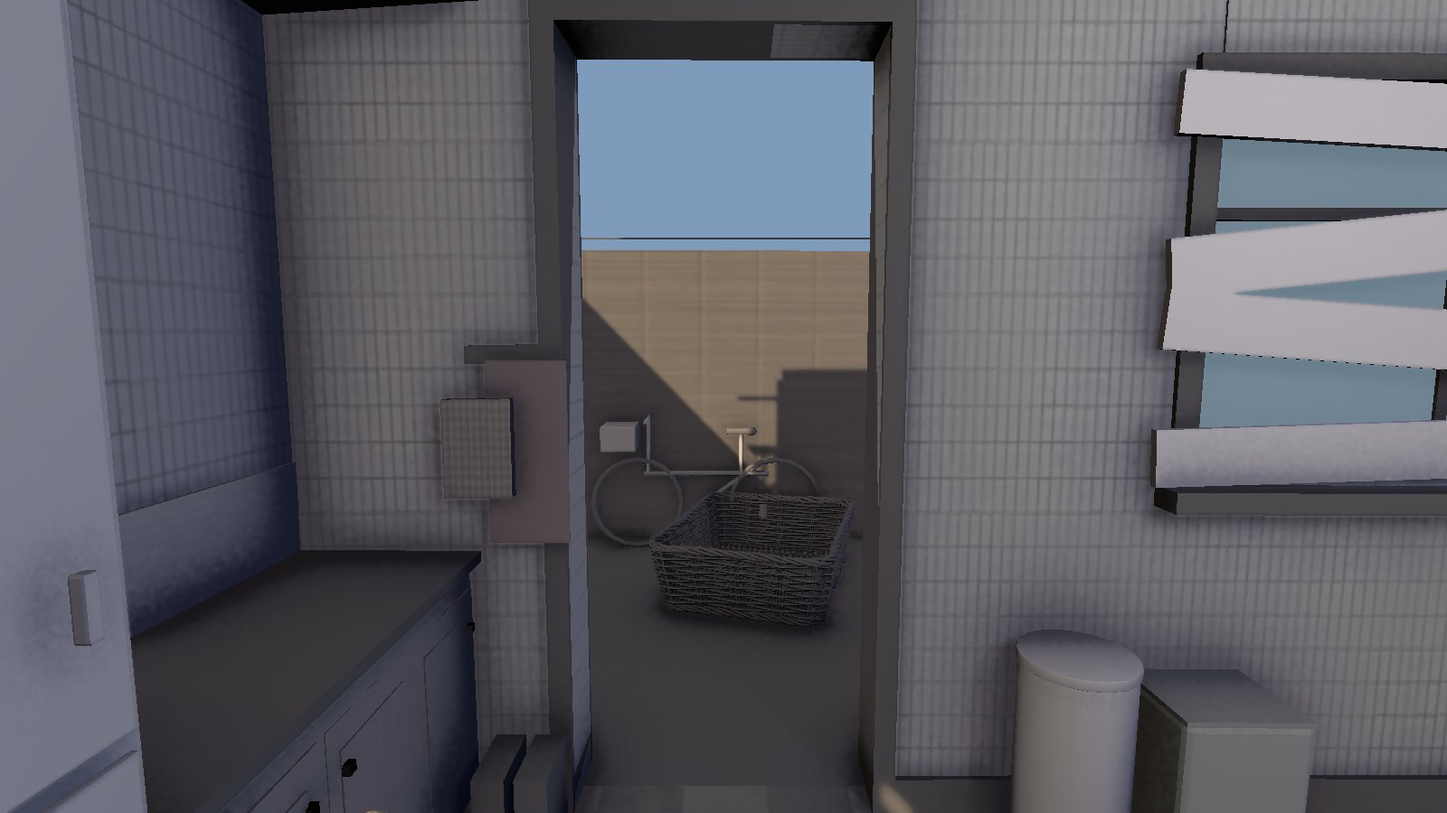
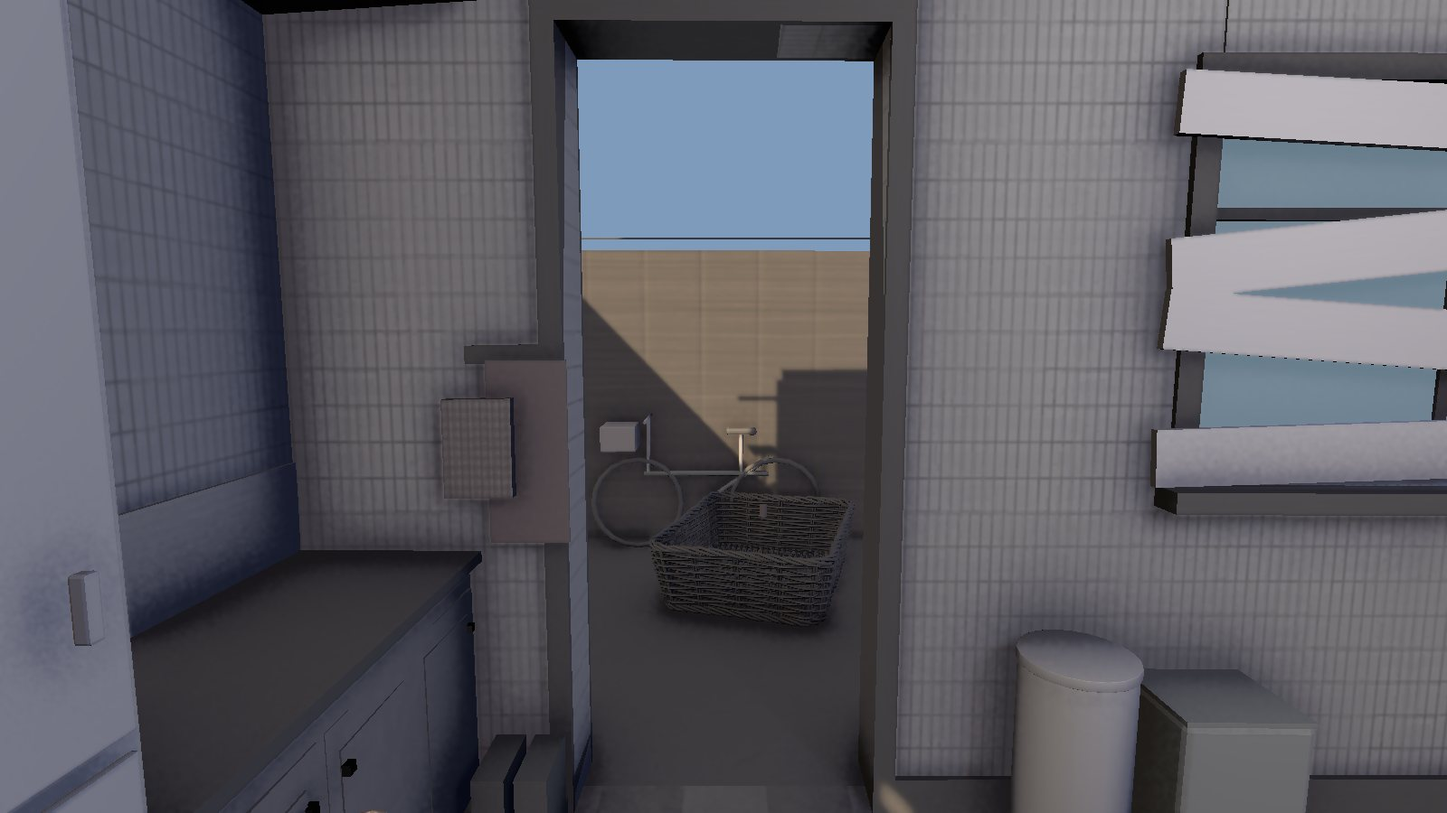
feat(case01): passage fades in with lantern-reveal effect; lantern radius follows memory age
- Kitchen-side-yard passage no longer pops in: on first entering the kitchen
  as teen, the seal becomes anomaly-only and the frame real-only, and a small
  reveal room spreads from the doorway centre (0.9 m/s, ~2-3 s, glowing edge);
  the seal and its collider are removed only when fully revealed.
- LanternReveal: per-room spread speed and RemoveRoom.
- Lantern radius scales with eye height: child x0.70, teen x0.85, adult x1.00
  (light, reveal range and light range together), smooth with the eye.
- Tests: reveal is gradual, blocks until done, spreads from the centre;
  lantern radius per age. Passage capture adds mid-reveal frames.

Changed region(s): [[0.375, 0.0622, 0.4062, 0.4667], [0.5938, 0.0933, 0.625, 0.4667], [0.5312, 0.0311, 0.5625, 0.0622]]

diff --git a/unity/Assets/Exploration/Scripts/Lantern/LanternKitchenYardPassage.cs b/unity/Assets/Exploration/Scripts/Lantern/LanternKitchenYardPassage.cs
@@ -1,5 +1,6 @@
 using System.Collections.Generic;
 using UnityEngine;
+using Mode = Shepherd.Exploration.Lantern.LanternReveal.Mode;
 
 namespace Shepherd.Exploration.Lantern
 {
@@ -17,10 +18,23 @@ namespace Shepherd.Exploration.Lantern
         /// <summary>封住時補上的那段牆（含兩側踢腳板）。</summary>
         public Transform KitchenYardSeal { get; private set; }
         private readonly List<GameObject> kitchenYardFrame = new List<GameObject>();
+        /// <summary>通路正在慢慢顯現（補牆還在、碰撞還在，顯現完才拿掉）。</summary>
+        public bool KitchenYardRevealing { get; private set; }
+        /// <summary>從門洞中央往外顯現的速度（m/s）；約 2 秒顯現完。</summary>
+        public const float KitchenYardRevealSpeed = 0.9f;
+        private int kitchenYardRoom = -1;
+        private float kitchenYardRevealNeed;
+        /// <summary>QA 用：顯現進度（目前擴散半徑／需要的半徑、格子）。</summary>
+        public string KitchenYardRevealDebug => "slot " + kitchenYardRoom + " spread " + (kitchenYardRoom >= 0 ? LanternReveal.RoomSpread(kitchenYardRoom) : -1f).ToString("0.00") + " need " + kitchenYardRevealNeed.ToString("0.00");
+        private readonly List<(Renderer r, Material m)> kitchenYardSwapped = new List<(Renderer, Material)>();
 
         /// <summary>在 BuildHouseV2 裡（V2 座標生效時）呼叫：建好補牆、找出門洞的門框，預設封住。</summary>
         private void V2KitchenYardPassage()
         {
+            if (kitchenYardRoom >= 0) LanternReveal.RemoveRoom(kitchenYardRoom);   // 房子重建：收回上一輪的顯現範圍
+            kitchenYardRoom = -1;
+            KitchenYardRevealing = false;
+            kitchenYardSwapped.Clear();
             kitchenYardFrame.Clear();
             const float doorH = 2.25f;   // 和 V2Shell 的門洞高度一樣
             var a = HP(V2ExtWidth, 0f, KitchenYardZ0);
@@ -43,9 +57,67 @@ namespace Shepherd.Exploration.Lantern
             SetKitchenYardPassage(false);
         }
 
-        /// <summary>開／關廚房↔側院的通路（開＝門洞與門框出現；關＝完整的牆）。</summary>
+        /// <summary>
+        /// 劇情觸發：通路慢慢顯現，效果和「提燈照到才出現的東西」一樣——
+        /// 補牆改成只存在於異域的牆、門框改成只存在於真實的門框，再從門洞中央讓一塊小範圍慢慢恢復真實（邊緣發光）。
+        /// 提燈照到的地方也會提早看見。顯現完才拿掉補牆（含碰撞），門框換回一般材質。
+        /// </summary>
+        public void RevealKitchenYardPassage()
+        {
+            if (KitchenYardOpen || KitchenYardSeal == null) return;
+            KitchenYardOpen = true;
+            KitchenYardRevealing = true;
+            kitchenYardSwapped.Clear();
+            void Swap(Renderer r, Mode mode)
+            {
+                var m = new Material(r.sharedMaterial) { name = r.sharedMaterial.name + (mode == Mode.AnomalyOnly ? "_AnomalyOnly" : "_RealOnly") };
+                m.SetFloat("_Mode", (float)mode);
+                kitchenYardSwapped.Add((r, r.sharedMaterial));
+                r.sharedMaterial = m;
+            }
+            foreach (var r in KitchenYardSeal.GetComponentsInChildren<Renderer>()) Swap(r, Mode.AnomalyOnly);
+            foreach (var g in kitchenYardFrame)
+            {
+                if (g == null) continue;
+                g.SetActive(true);
+                foreach (var r in g.GetComponentsInChildren<Renderer>()) Swap(r, Mode.RealOnly);
+            }
+            // 顯現的範圍只包住門洞（牆厚＋門框），不會把旁邊的牆也變成真實的樣子。
+            // （注意：這裡是遊戲中呼叫，HP() 已經不是 V2 的座標，所以直接用物件的外框。）
+            var sealRs = KitchenYardSeal.GetComponentsInChildren<Renderer>();
+            var b = sealRs[0].bounds;
+            foreach (var r in sealRs) b.Encapsulate(r.bounds);
+            foreach (var g in kitchenYardFrame) if (g != null) foreach (var r in g.GetComponentsInChildren<Renderer>()) b.Encapsulate(r.bounds);
+            b.Expand(new Vector3(0.12f, 0.1f, 0.06f));
+            var seed = new Vector3(b.center.x, b.min.y + 1.2f, b.center.z);
+            kitchenYardRevealNeed = 0f;
+            foreach (var cx in new[] { b.min.x, b.max.x }) foreach (var cy in new[] { b.min.y, b.max.y }) foreach (var cz in new[] { b.min.z, b.max.z })
+                kitchenYardRevealNeed = Mathf.Max(kitchenYardRevealNeed, Vector3.Distance(seed, new Vector3(cx, cy, cz)));
+            kitchenYardRevealNeed += 0.7f;   // 遮罩邊緣（與 IsReal 判斷的 0.6 m 一致，再留一點）
+            kitchenYardRoom = LanternReveal.AddRoom(b, seed, false, KitchenYardRevealSpeed);
+            if (kitchenYardRoom < 0) FinishKitchenYardReveal();   // 沒有空格：直接打開
+        }
+
+        /// <summary>每個影格：顯現完了就拿掉補牆與碰撞。</summary>
+        public void TickKitchenYardPassage()
+        {
+            if (KitchenYardRevealing && LanternReveal.RoomSpread(kitchenYardRoom) >= kitchenYardRevealNeed) FinishKitchenYardReveal();
+        }
+
+        private void FinishKitchenYardReveal()
+        {
+            KitchenYardRevealing = false;
+            foreach (var (r, m) in kitchenYardSwapped) if (r != null) r.sharedMaterial = m;
+            kitchenYardSwapped.Clear();
+            if (KitchenYardSeal != null) KitchenYardSeal.gameObject.SetActive(false);
+            Physics.SyncTransforms();
+        }
+
+        /// <summary>直接開／關廚房↔側院的通路（開＝門洞與門框出現；關＝完整的牆）。測試、截圖、重建用；遊戲裡用 RevealKitchenYardPassage。</summary>
         public void SetKitchenYardPassage(bool open)
         {
+            if (KitchenYardRevealing) FinishKitchenYardReveal();
+            if (!open && kitchenYardRoom >= 0) { LanternReveal.RemoveRoom(kitchenYardRoom); kitchenYardRoom = -1; }
             KitchenYardOpen = open;
             if (KitchenYardSeal != null) KitchenYardSeal.gameObject.SetActive(!open);
             foreach (var g in kitchenYardFrame) if (g != null) g.SetActive(open);

diff --git a/unity/Assets/Exploration/Scripts/Lantern/LanternPrototypeQA.cs b/unity/Assets/Exploration/Scripts/Lantern/LanternPrototypeQA.cs
@@ -309,7 +309,8 @@ namespace Shepherd.Exploration.Lantern
             var p = feet + Vector3.up;
             bool inDining = World.V2DiningRoom.size.sqrMagnitude > 0f && World.V2DiningRoom.Contains(p);
             if (Age == MemoryAge.Child && (inDining || area == 1)) Age = MemoryAge.Teen;   // 走廊→餐廳：第一次成長
-            if (Age >= MemoryAge.Teen && area == 1 && !World.KitchenYardOpen) World.SetKitchenYardPassage(true);   // 進廚房：通路恢復
+            if (Age >= MemoryAge.Teen && area == 1 && !World.KitchenYardOpen) World.RevealKitchenYardPassage();   // 進廚房：通路慢慢顯現
+            World.TickKitchenYardPassage();
             if (Age == MemoryAge.Teen && World.KitchenYardOpen && area == 2 && lastArea == 1 && !jumped) Age = MemoryAge.Adult;   // 廚房→側院：成人
             if (jumped || area != 0) lastArea = area;
         }
@@ -318,6 +319,21 @@ namespace Shepherd.Exploration.Lantern
         public float ChildEyeHeight = 0.85f;
         /// <summary>初中時期的眼高（餐廳）。</summary>
         public float TeenEyeHeight = 1.12f;
+        /// <summary>
+        /// 提燈光圈跟著記憶年齡縮放（使用者 2026-11-16：小時候拿燈的光照範圍不該和大人一樣大）。
+        /// 完全照身高比例（0.85／1.62≈0.52、1.12／1.62≈0.69）會小到前方只照得到 1 m 多、很難探索，
+        /// 所以取折衷：幼年 0.70、青春期 0.85、成人 1.00；中間跟著眼高平順變化。
+        /// </summary>
+        public float ChildLanternScale = 0.70f, TeenLanternScale = 0.85f;
+
+        /// <summary>依目前的眼高換算提燈光圈倍率（幼年眼高→幼年倍率、青春期→青春期、成人→1，中間線性）。</summary>
+        public float LanternScaleForEye(float eye)
+        {
+            if (eye <= TeenEyeHeight)
+                return Mathf.Lerp(ChildLanternScale, TeenLanternScale, Mathf.InverseLerp(ChildEyeHeight, TeenEyeHeight, eye));
+            return Mathf.Lerp(TeenLanternScale, 1f, Mathf.InverseLerp(TeenEyeHeight, AdultEyeHeight, eye));
+        }
+
         /// <summary>false＝永遠成人眼高（有些測試與工具用）。</summary>
         public bool MemoryHeights = true;
         /// <summary>測試模式 K 的強制視角：null＝自動（依房間）。</summary>
@@ -348,6 +364,7 @@ namespace Shepherd.Exploration.Lantern
             TargetEyeHeight = ViewOverride ?? MemoryEyeHeightAt(feet);
             eyeNow = jumped ? TargetEyeHeight : Mathf.MoveTowards(eyeNow, TargetEyeHeight, dt * 1.3f);   // 穿過記憶門：約半秒的過渡
             Player.EyeHeightValue = eyeNow;
+            Rig.RadiusScale = LanternScaleForEye(eyeNow);
         }
 
         /// <summary>測試模式 K：自動 → 強制成人 → 強制小小孩 → 自動。</summary>
@@ -403,7 +420,7 @@ namespace Shepherd.Exploration.Lantern
             GUI.color = Color.white;
             string mode = ViewOverride == null ? "自動（依記憶房間）" : Mathf.Approximately(ViewOverride.Value, AdultEyeHeight) ? "強制成人" : "強制小小孩";
             GUI.Label(new Rect(w - 462, 10, 450, 24), "服飾店測試（A 正式）：視角 " + mode, shopLabel);
-            GUI.Label(new Rect(w - 462, 36, 450, 20), "記憶：" + (Age == MemoryAge.Child ? "幼年" : Age == MemoryAge.Teen ? "青春期" : "成人") + (World.KitchenYardOpen ? "・廚房側院通路已開" : "") + "　眼高 " + Player.EyeHeightValue.ToString("0.00") + " m（小小孩 " + ChildEyeHeight.ToString("0.00") + "／初中 " + TeenEyeHeight.ToString("0.00") + "／成人 1.62）", shopHint);
+            GUI.Label(new Rect(w - 462, 36, 450, 20), "記憶：" + (Age == MemoryAge.Child ? "幼年" : Age == MemoryAge.Teen ? "青春期" : "成人") + (World.KitchenYardOpen ? "・廚房側院通路已開" : "") + "　眼高 " + Player.EyeHeightValue.ToString("0.00") + " m・光圈 ×" + Rig.RadiusScale.ToString("0.00"), shopHint);
             GUI.Label(new Rect(w - 462, 56, 450, 20), "K 自動／成人／小小孩・U／I 小小孩眼高 −／＋ 0.05", shopHint);
             GUI.Label(new Rect(w - 462, 76, 450, 20), "1 入口・2 櫃台前・3 工作區・4 衣架後方・5 住宅入口", shopHint);
             GUI.Label(new Rect(w - 462, 96, 450, 20), "Shift+F2 離開（回到現況、成人視角）", shopHint);

diff --git a/unity/Assets/Exploration/Tests/EditMode/LanternPrototypeTests.cs b/unity/Assets/Exploration/Tests/EditMode/LanternPrototypeTests.cs
@@ -1692,6 +1692,8 @@ namespace Shepherd.Exploration.Tests
             Settle(qa);
             Assert.AreEqual(LanternPrototypeQA.MemoryAge.Child, qa.Age, "從走廊的門進側院：還是幼年");
             Assert.AreEqual(qa.ChildEyeHeight, qa.Player.EyeHeightValue, 1e-4f, "側院：幼年眼高");
+            float baseR = LanternRig.Radii[qa.Rig.RadiusIndex];
+            Assert.AreEqual(baseR * qa.ChildLanternScale, qa.Rig.TargetRadius, 1e-3f, "幼年：提燈光圈比較小");
             Assert.IsFalse(w.KitchenYardOpen, "通路還沒出現");
             TakeThread(qa);
             Walk(qa, "幼年：側院→店面", YardToShop);
@@ -1705,6 +1707,7 @@ namespace Shepherd.Exploration.Tests
             Settle(qa);
             Assert.AreEqual(LanternPrototypeQA.MemoryAge.Teen, qa.Age, "進餐廳：青春期");
             Assert.AreEqual(qa.TeenEyeHeight, qa.Player.EyeHeightValue, 1e-4f, "餐廳：青春期眼高");
+            Assert.AreEqual(baseR * qa.TeenLanternScale, qa.Rig.TargetRadius, 1e-3f, "青春期：提燈光圈中等");
             Walk(qa, "餐廳→走廊", HallToKitchen[1], HallToKitchen[0], (5.07f, 7.5f));
             Walk(qa, "走廊→側院", HallToYard);
             Settle(qa);
@@ -1713,8 +1716,28 @@ namespace Shepherd.Exploration.Tests
             Walk(qa, "側院→走廊", (5.1f, 10.6f), (5.1f, 9.4f), (5.07f, 6.45f));
             // 進廚房：通路恢復，廚房維持青春期。
             Walk(qa, "走廊→餐廳→廚房", HallToKitchen);
-            Settle(qa);
             Assert.IsTrue(w.KitchenYardOpen, "進廚房後通路恢復");
+            // 不是瞬間出現：補牆先變成只存在於異域的牆，從門洞中央慢慢顯現（和提燈照出來的效果一樣），顯現完才拿掉碰撞。
+            Assert.IsTrue(w.KitchenYardRevealing, "正在慢慢顯現");
+            var sealWall = w.KitchenYardSeal.GetComponentsInChildren<Renderer>().First(r => r.name == "Wall");
+            Assert.AreEqual(LanternReveal.Mode.AnomalyOnly, LanternReveal.GetMode(sealWall.sharedMaterial), "顯現中：補牆只存在於異域（提燈照到也會提早看見）");
+            float zc = (LanternGraybox.KitchenYardZ0 + LanternGraybox.KitchenYardZ1) / 2f;
+            var top = PV(LanternGraybox.V2ExtWidth, zc) + Vector3.up * 2.4f;
+            bool sawPartial = false;
+            float revealT = 0f;
+            while (w.KitchenYardRevealing && revealT < 6f)
+            {
+                qa.Step(Dt, ExploreInput.None);
+                revealT += Dt;
+                if (w.KitchenYardRevealing)
+                {
+                    Assert.IsTrue(Physics.Raycast(PV(3.4f, zc) + Vector3.up * 1f, Vector3.right, out var hb, 2f) && hb.collider.transform.IsChildOf(w.KitchenYardSeal), "顯現完之前還走不過去");
+                    if (LanternReveal.IsReal(PV(LanternGraybox.V2ExtWidth, zc) + Vector3.up * 1.1f) && !LanternReveal.IsReal(top)) sawPartial = true;
+                }
+            }
+            Assert.IsFalse(w.KitchenYardRevealing, "顯現完了（" + revealT.ToString("0.0") + " 秒，" + w.KitchenYardRevealDebug + "）");
+            Assert.IsTrue(revealT > 1.2f && revealT < 4.5f, "顯現大約 2～3 秒（實際 " + revealT.ToString("0.0") + " 秒）");
+            Assert.IsTrue(sawPartial, "從中間往外顯現（中間先出現、上緣後出現）");
             Assert.IsFalse(w.KitchenYardSeal.gameObject.activeInHierarchy, "補牆收起來");
             Assert.AreEqual(3, ActivePassageTrims(w), "門框出現");
             Assert.AreEqual(qa.TeenEyeHeight, qa.Player.EyeHeightValue, 1e-4f, "廚房：維持青春期（不再直接成人）");
@@ -1725,6 +1748,7 @@ namespace Shepherd.Exploration.Tests
             Assert.LessOrEqual(maxStep, 1.3f * Dt + 1e-4f, "眼高是平順過渡（每格最多 " + maxStep.ToString("0.000") + " m）");
             Settle(qa);
             Assert.AreEqual(LanternPrototypeQA.AdultEyeHeight, qa.Player.EyeHeightValue, 1e-4f, "成人眼高");
+            Assert.AreEqual(baseR, qa.Rig.TargetRadius, 1e-3f, "成人：提燈光圈恢復原本大小");
             // 雙向：再走回廚房；成人之後到哪裡都不倒退。
             Walk(qa, "側院→廚房（雙向）", (4.6f, 13.8f), (3.404f, 13.788f));
             Settle(qa);

diff --git a/unity/Assets/Exploration/Scripts/Lantern/LanternReveal.cs b/unity/Assets/Exploration/Scripts/Lantern/LanternReveal.cs
@@ -1,4 +1,4 @@
-using System.Collections.Generic;
+using System.Collections.Generic;
 using UnityEngine;
 
 namespace Shepherd.Exploration.Lantern
@@ -115,6 +115,7 @@ namespace Shepherd.Exploration.Lantern
         private static readonly Vector4[] boxMin = new Vector4[RoomCount];
         private static readonly Vector4[] boxMax = new Vector4[RoomCount];
         private static readonly Vector4[] boxSeed = new Vector4[RoomCount];
+        private static readonly float[] roomSpeed = new float[RoomCount];
 
         private static void PushRooms()
         {
@@ -125,12 +126,12 @@ namespace Shepherd.Exploration.Lantern
 
         public static void ClearRooms()
         {
-            for (int i = 0; i < RoomCount; i++) { boxMin[i] = Vector4.zero; boxMax[i] = Vector4.zero; boxSeed[i] = Vector4.zero; }
+            for (int i = 0; i < RoomCount; i++) { boxMin[i] = Vector4.zero; boxMax[i] = Vector4.zero; boxSeed[i] = Vector4.zero; roomSpeed[i] = RoomSpreadSpeed; }
             PushRooms();
         }
 
-        /// <summary>讓一整個範圍（房間）永久恢復真實；從 seed 往外擴散。instant＝立刻整間變真實。回傳格子編號（滿了回傳 -1）。</summary>
-        public static int AddRoom(Bounds room, Vector3 seed, bool instant = false)
+        /// <summary>讓一整個範圍（房間）永久恢復真實；從 seed 往外擴散。instant＝立刻整間變真實。speed＝擴散速度（m/s，預設 6）。回傳格子編號（滿了回傳 -1）。</summary>
+        public static int AddRoom(Bounds room, Vector3 seed, bool instant = false, float speed = RoomSpreadSpeed)
         {
             for (int i = 0; i < RoomCount; i++)
                 if (boxMin[i].w <= 0f)
@@ -138,6 +139,7 @@ namespace Shepherd.Exploration.Lantern
                     boxMin[i] = new Vector4(room.min.x, room.min.y, room.min.z, 1f);
                     boxMax[i] = new Vector4(room.max.x, room.max.y, room.max.z, 0f);
                     boxSeed[i] = new Vector4(seed.x, seed.y, seed.z, instant ? RoomSpreadMax : 0.01f);
+                    roomSpeed[i] = speed;
                     PushRooms();
                     return i;
                 }
@@ -150,6 +152,14 @@ namespace Shepherd.Exploration.Lantern
         }
 
         public static float RoomSpread(int i) => boxSeed[Mathf.Clamp(i, 0, RoomCount - 1)].w;
+
+        /// <summary>收回一格房間（房子重建時用）。</summary>
+        public static void RemoveRoom(int i)
+        {
+            if (i < 0 || i >= RoomCount) return;
+            boxMin[i] = Vector4.zero; boxMax[i] = Vector4.zero; boxSeed[i] = Vector4.zero; roomSpeed[i] = RoomSpreadSpeed;
+            PushRooms();
+        }
 
         private static void PushExtra() => Shader.SetGlobalVectorArray(ExtraId, extra);
 
@@ -209,7 +219,7 @@ namespace Shepherd.Exploration.Lantern
             PushExtra();
             bool spread = false;
             for (int i = 0; i < RoomCount; i++)
-                if (boxMin[i].w > 0f && boxSeed[i].w < RoomSpreadMax) { boxSeed[i].w = Mathf.Min(RoomSpreadMax, boxSeed[i].w + RoomSpreadSpeed * dt); spread = true; }
+                if (boxMin[i].w > 0f && boxSeed[i].w < RoomSpreadMax) { boxSeed[i].w = Mathf.Min(RoomSpreadMax, boxSeed[i].w + (roomSpeed[i] > 0f ? roomSpeed[i] : RoomSpreadSpeed) * dt); spread = true; }
             if (spread) PushRooms();
         }
 

diff --git a/unity/Assets/Exploration/Scripts/Lantern/LanternRig.cs b/unity/Assets/Exploration/Scripts/Lantern/LanternRig.cs
@@ -64,7 +64,9 @@ namespace Shepherd.Exploration.Lantern
         private float lastYaw, lastPitch;
         private Material flame, glassMat;
 
-        public float TargetRadius => On ? Radii[RadiusIndex] : 0f;
+        /// <summary>光圈大小的倍率（記憶視角：幼年、青春期的光比較小；成人＝1）。光、顯示真實的範圍、光源照射距離一起縮放。</summary>
+        public float RadiusScale = 1f;
+        public float TargetRadius => On ? Radii[RadiusIndex] * RadiusScale : 0f;
 
         public static LanternRig Build(Camera cam, FirstPersonController player)
         {
@@ -363,7 +365,7 @@ namespace Shepherd.Exploration.Lantern
             // 光：開關時光圈平滑展開／收合；燈光輕微呼吸（不是火焰的劇烈跳動）。
             CurrentRadius = Mathf.MoveTowards(CurrentRadius, TargetRadius, dt * 9f);
             float breathe = 1f + Mathf.Sin(time * 2.3f) * 0.03f + (Mathf.PerlinNoise(time * 1.7f, 0.3f) - 0.5f) * 0.04f;
-            float k = CurrentRadius / Radii[RadiusIndex];
+            float k = CurrentRadius / Mathf.Max(0.01f, Radii[RadiusIndex] * RadiusScale);
             Light.enabled = CurrentRadius > 0.01f;
             Light.intensity = 0.9f * breathe * Mathf.Clamp01(k) * Mathf.Lerp(1f, 0.35f, fb);
             Light.range = Mathf.Max(0.5f, CurrentRadius * 2f);

diff --git a/unity/Assets/Exploration/Editor/LanternShopLayoutEditor.cs b/unity/Assets/Exploration/Editor/LanternShopLayoutEditor.cs
@@ -144,6 +144,19 @@ namespace Shepherd.Exploration.Editor
                         qa.Post.Apply();
                         Shot(qa, rt, Path.Combine(dir, "passage_" + (open ? "open" : "sealed") + "_" + side + ".png"));
                     }
+                // 顯現中（提燈關著，只看通路自己慢慢出現）：0.6、1.2、1.8 秒各一張。
+                qa.Rig.SetOn(false);
+                qa.Player.Teleport(o + new Vector3(2.2f * S, 0.05f, 13.8f * S), 90f, 6f);
+                for (int k = 0; k < 4; k++) qa.Step(1f / 30f, ExploreInput.None);
+                qa.World.SetKitchenYardPassage(false);
+                qa.World.RevealKitchenYardPassage();
+                for (int shot = 1; shot <= 3; shot++)
+                {
+                    for (int k = 0; k < 18; k++) qa.Step(1f / 30f, ExploreInput.None);
+                    qa.Rig.Snap();
+                    qa.Post.Apply();
+                    Shot(qa, rt, Path.Combine(dir, "passage_revealing_" + shot + ".png"));
+                }
             }
             finally
             {

diff --git a/docs/design/SHEPHERD_GAME_DESIGN_MASTER.md b/docs/design/SHEPHERD_GAME_DESIGN_MASTER.md
@@ -139,4 +139,5 @@
 - 【待確認】線材與縫紉機任務的精確條件、其他記憶門的劇情節點，以及成年化當下的敘事演出，仍待設計與 QA。
 - 【已修正】§7.8 的舊行為（廚房直接成人、側院固定幼年）已依本節改掉，見下方「已實作」。
 - 【已實作 2026-11-16，待使用者試玩】Unity 已改：眼高依記憶進度（幼年 0.85 → 第一次進餐廳青春期 1.12 → 第一次從廚房穿過通路進側院成人 1.62），只會往前不倒退；廚房維持青春期；廚房↔側院通路一開始兩側都是完整的牆（同一種牆面材質、沒有門框，提燈照不出來），青春期之後第一次進廚房才恢復，之後一直開著、雙向可走；走廊→側院的普通後門始終可走、不會讓人提前成人。重新開始（房子重建）回到幼年、通路重新封住。EditMode 測試已驗證下列 QA 項目與兩條探索順序（A：先取線縫紉再進餐廳；B：先進餐廳→廚房→通路→側院取線→回店縫紉）。截圖：`docs/prototype/kitchen_yard_passage/`。
-- 【QA 項目】驗證兩條路皆能取得線材、完成縫紉機；走廊側院門始終可走；廚房側院牆初期不能用提燈照出；劇情後通路出現；廚房保持青春期、首次從廚房跨往側院才恢復成人；從任一方向回走不倒退視角；任務和事件不因探索順序不同而卡住。
+- 【已實作 2026-11-16，使用者回饋後】通路**不是瞬間出現**：進廚房後，補牆改成只存在於異域的牆、門框改成只存在於真實，從門洞中央慢慢恢復真實（和提燈照出隱藏物件同一種發光邊緣效果），約 2～3 秒顯現完才拿掉碰撞；提燈照到的地方會提早看見。
+- 【已實作／待試玩 2026-11-16】**提燈光圈跟著記憶年齡縮放**（光、顯示真實的範圍、光源距離一起）：幼年 ×0.70、青春期 ×0.85、成人 ×1.00，跟著眼高平順變化。完全照身高比例（×0.52／×0.69）前方只照得到約 1 m 多，探索會很吃力，所以先取折衷；數值待試玩調整。- 【QA 項目】驗證兩條路皆能取得線材、完成縫紉機；走廊側院門始終可走；廚房側院牆初期不能用提燈照出；劇情後通路出現；廚房保持青春期、首次從廚房跨往側院才恢復成人；從任一方向回走不倒退視角；任務和事件不因探索順序不同而卡住。

diff --git a/docs/level/CASE01_SHOP_LAYOUT_QA.md b/docs/level/CASE01_SHOP_LAYOUT_QA.md
@@ -31,11 +31,12 @@
 
 **廚房↔側院的通路**（廚房東牆的門洞）：
 - 一開始兩側都是完整的牆：沒有門框、走不過去，提燈也照不出來（補牆和整面牆是同一種材質）。
-- 青春期之後第一次進到廚房，通路恢復；之後一直開著、兩邊都能走。
+- 青春期之後第一次進到廚房，通路**慢慢顯現**：從門洞中央往外恢復，邊緣發光（和提燈照出隱藏物件同一種效果），約 2～3 秒；顯現完才能走過去。之後一直開著、兩邊都能走。
 - **走廊→側院的普通後門**從頭到尾都能走；從這裡進側院不會提前變成人。
 - 兩種探索順序都可以：A. 先從走廊後門去側院拿線、回店裡縫好，再進餐廳；B. 先進餐廳→廚房→通路→側院拿線→從走廊後門回店裡縫。
 - 走過觸發點時約半秒平順過渡；傳送時直接到位。重新開始（房子重建）會回到幼年、通路重新封住。
-- 截圖（Unity 實機，封住時開著提燈）：`docs/prototype/kitchen_yard_passage/`（`passage_sealed_kitchen.jpg`、`passage_sealed_yard.jpg`、`passage_open_kitchen.jpg`、`passage_open_yard.jpg`）。
+- **提燈光圈也跟著年齡**：幼年 ×0.70、青春期 ×0.85、成人 ×1.00（光、顯示真實的範圍、光源距離一起縮放），跟著眼高平順變化。完全照身高比例會只剩約一半，前方照不到 1.5 m，先取折衷，待試玩調整。
+- 截圖（Unity 實機，封住時開著提燈）：`docs/prototype/kitchen_yard_passage/`（`passage_sealed_kitchen.jpg`、`passage_sealed_yard.jpg`、`passage_open_kitchen.jpg`、`passage_open_yard.jpg`；顯現中 `passage_revealing_1～3.jpg`，約 0.6／1.2／1.8 秒）。
 - 0.85 m 是使用者試玩時按 U 調到的高度。U 的下限現在放寬到 0.60，之後還可以再試。
 ## 三、測試模式（沒有新增入口）
 
